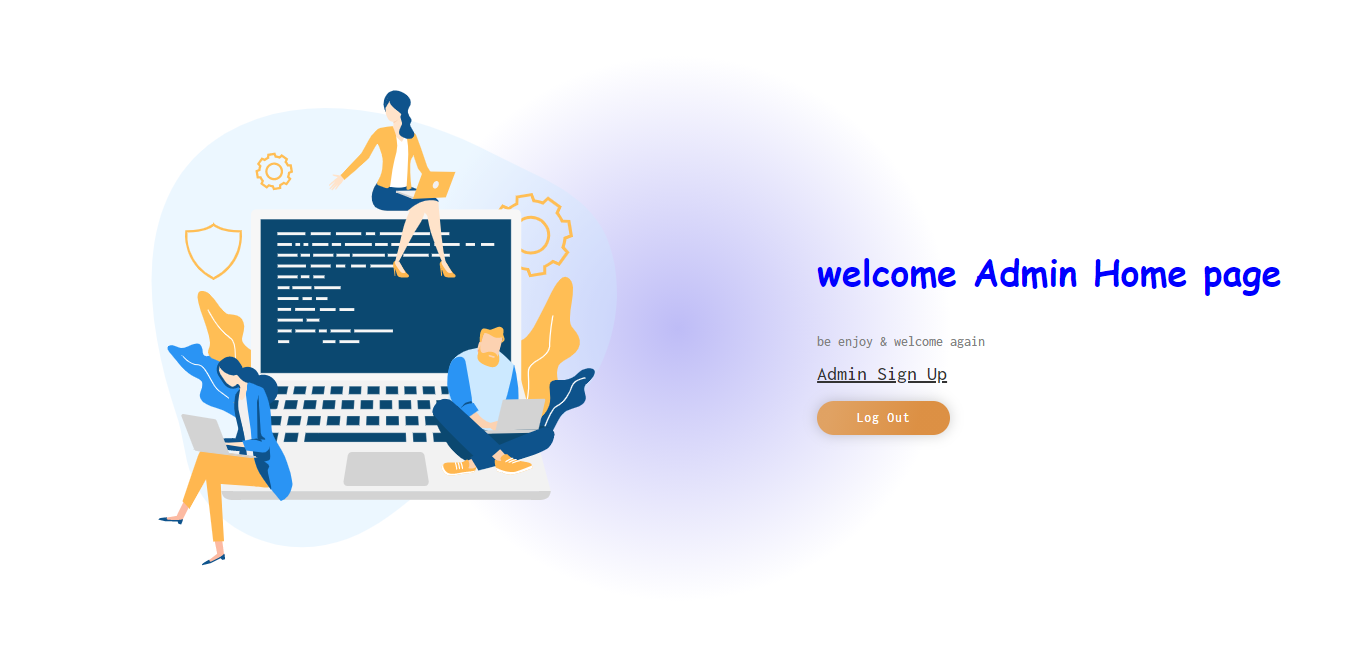
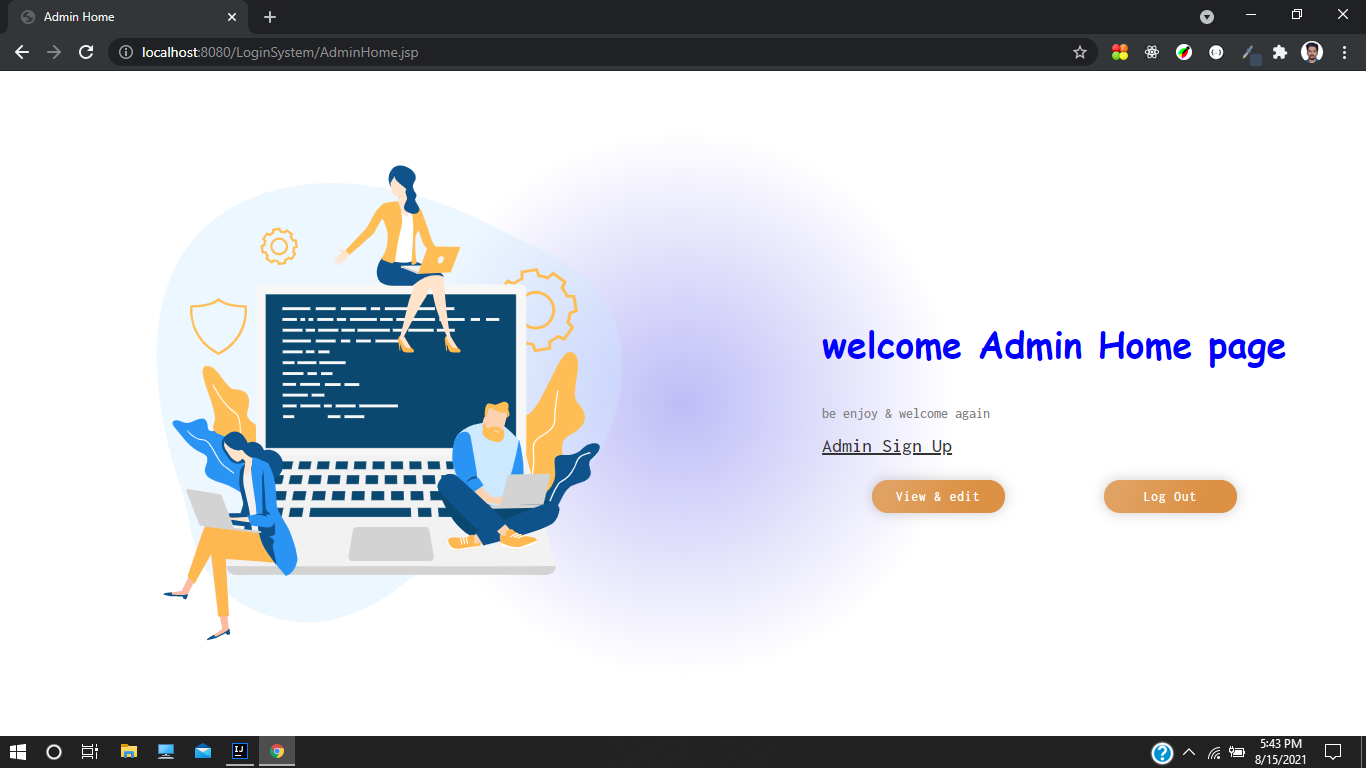
add delete and search feature for admin side & add project view screen shots for git

diff --git a/src/com/epic/loginsystem/dao/RegistrationDao.java b/src/com/epic/loginsystem/dao/RegistrationDao.java
@@ -2,38 +2,46 @@ package com.epic.loginsystem.dao;
 
 
 import com.epic.loginsystem.db.DBConnection;
+import com.epic.loginsystem.db.MyListner;
 import com.epic.loginsystem.model.Registration;
+
+import javax.annotation.Resource;
+import javax.servlet.annotation.WebServlet;
+import javax.sql.DataSource;
 import java.sql.*;
 import java.util.ArrayList;
 
 public class RegistrationDao {
+    @Resource(name = "java:comp/env/jdbc/pool")
+    DataSource ds;
+
 
     public boolean registerEmployee(Registration registration) throws ClassNotFoundException {
         DBConnection connection = null;
         try {
             connection = new DBConnection();
 
-        System.out.println("dao comming");
+            System.out.println("dao comming");
 
-        PreparedStatement pstm = connection.getConnection().prepareStatement("insert into Registration values(?,?,?,?,?,?)");
-        System.out.println("db go");
-        pstm.setObject(1,registration.getEmail());
-        pstm.setObject(2,registration.getUserName());
-        pstm.setObject(3,registration.getAddress());
-        pstm.setObject(4,registration.getContact());
-        pstm.setObject(5,registration.getPassword());
-        pstm.setObject(6,registration.getRole());
+            PreparedStatement pstm = connection.getConnection().prepareStatement("insert into Registration values(?,?,?,?,?,?)");
+            System.out.println("db go");
+            pstm.setObject(1, registration.getEmail());
+            pstm.setObject(2, registration.getUserName());
+            pstm.setObject(3, registration.getAddress());
+            pstm.setObject(4, registration.getContact());
+            pstm.setObject(5, registration.getPassword());
+            pstm.setObject(6, registration.getRole());
 
-        int i = pstm.executeUpdate();
-        System.out.println(i);
-        if (i>=0){
-            return true;
-        }else{
-            return false;
-        }
+            int i = pstm.executeUpdate();
+            System.out.println(i);
+            if (i >= 0) {
+                return true;
+            } else {
+                return false;
+            }
         } catch (SQLException throwables) {
             throwables.printStackTrace();
-        }finally {
+        } finally {
             try {
                 connection.connection.close();
             } catch (SQLException throwables) {
@@ -44,34 +52,35 @@ public class RegistrationDao {
 
     }
 
-    public Registration signIn(String email) throws ClassNotFoundException{
-        Registration r=new Registration();
+    public Registration signIn(String email) throws ClassNotFoundException {
+        Registration r = new Registration();
         //connect with database and get data from my sql database - registration table
         DBConnection dbConnection = null;
         try {
             dbConnection = new DBConnection();
 
-        PreparedStatement pstm = dbConnection.getConnection().prepareStatement("select * from Registration where email=?");
-        pstm.setObject(1,email);
-        ResultSet rst = pstm.executeQuery();
+            PreparedStatement pstm = dbConnection.getConnection().prepareStatement("select * from Registration where email=?");
+            pstm.setObject(1, email);
+            ResultSet rst = pstm.executeQuery();
 
-        while (rst.next()){
-             System.out.println(rst.getString(5));String mail = rst.getString(1); //collect data
-             String userName = rst.getString(2); //collect data
-             String address = rst.getString(3); //collect data
-             String contact = rst.getString(4); //collect data
-             String pass = rst.getString(5); //collect data
-             String role = rst.getString(6); //collect data
-             r.setEmail(mail); //data set to registration model
-             r.setUserName(userName); //data set to registration model
-             r.setAddress(address); //data set to registration model
-             r.setContact(contact);//data set to registration model
-             r.setPassword(pass);//data set to registration model
-            r.setRole(role);
-        }
+            while (rst.next()) {
+                System.out.println(rst.getString(5));
+                String mail = rst.getString(1); //collect data
+                String userName = rst.getString(2); //collect data
+                String address = rst.getString(3); //collect data
+                String contact = rst.getString(4); //collect data
+                String pass = rst.getString(5); //collect data
+                String role = rst.getString(6); //collect data
+                r.setEmail(mail); //data set to registration model
+                r.setUserName(userName); //data set to registration model
+                r.setAddress(address); //data set to registration model
+                r.setContact(contact);//data set to registration model
+                r.setPassword(pass);//data set to registration model
+                r.setRole(role);
+            }
         } catch (SQLException throwables) {
             throwables.printStackTrace();
-        }finally {
+        } finally {
             try {
                 dbConnection.connection.close();
             } catch (SQLException throwables) {
@@ -84,37 +93,38 @@ public class RegistrationDao {
     public ArrayList<Registration> getDetails() throws SQLException, ClassNotFoundException {
         System.out.println("come dao");
         Registration r = new Registration();
-        DBConnection dbConnection=null;
-        ResultSet rst=null;
-             dbConnection = new DBConnection();
-             PreparedStatement pstm = dbConnection.getConnection().prepareStatement("SELECT * FROM Registration");
+        DBConnection dbConnection = null;
+        ResultSet rst = null;
+        dbConnection = new DBConnection();
+        System.out.println("before go to db");
+        PreparedStatement pstm = dbConnection.getConnection().prepareStatement("SELECT * FROM Registration");
         rst = pstm.executeQuery();
         System.out.println("get result");
-        ArrayList<Registration> load=new ArrayList<>();
-        while (rst.next()){
+        ArrayList<Registration> load = new ArrayList<>();
+        while (rst.next()) {
             System.out.println("while ");
-            load.add(new Registration(rst.getString(1),rst.getString(2),rst.getString(3),rst.getString(4),rst.getString(5), rst.getString(6)));
+            load.add(new Registration(rst.getString(1), rst.getString(2), rst.getString(3), rst.getString(4), rst.getString(5), rst.getString(6)));
 
             System.out.println("Add data");
         }
         return load;
     }
 
-    public boolean updateRegister(Registration r){
+    public boolean updateRegister(Registration r) {
         DBConnection connection = null;
         try {
             connection = new DBConnection();
             PreparedStatement pstm = connection.getConnection().prepareStatement("UPDATE Registration SET userName=?,address=?,contact=?,password=?,role=? WHERE email=? ");
-            pstm.setObject(1,r.getUserName());
-            pstm.setObject(2,r.getAddress());
-            pstm.setObject(3,r.getContact());
-            pstm.setObject(4,r.getPassword());
-            pstm.setObject(5,r.getRole());
-            pstm.setObject(6,r.getEmail());
+            pstm.setObject(1, r.getUserName());
+            pstm.setObject(2, r.getAddress());
+            pstm.setObject(3, r.getContact());
+            pstm.setObject(4, r.getPassword());
+            pstm.setObject(5, r.getRole());
+            pstm.setObject(6, r.getEmail());
             int i = pstm.executeUpdate();
-            if (i>=0){
+            if (i >= 0) {
                 return true;
-            }else{
+            } else {
                 return false;
             }
 
@@ -123,7 +133,7 @@ public class RegistrationDao {
             e.printStackTrace();
         } catch (SQLException throwables) {
             throwables.printStackTrace();
-        }finally {
+        } finally {
             try {
                 connection.connection.close();
             } catch (SQLException throwables) {
@@ -131,5 +141,47 @@ public class RegistrationDao {
             }
         }
         return false;
+    }
+
+    public ArrayList<Registration> searchRegistration(String userName) {
+        DBConnection connection = null;
+        try {
+            connection = new DBConnection();
+            PreparedStatement pstm = connection.getConnection().prepareStatement("SELECT * FROM Registration WHERE userName=?");
+            pstm.setObject(1, userName);
+            ResultSet rst = pstm.executeQuery();
+            ArrayList<Registration> load = new ArrayList<>();
+            while (rst.next()) {
+                load.add(new Registration(rst.getString(1), rst.getString(2), rst.getString(3), rst.getString(4), rst.getString(5), rst.getString(6)));
+            }
+            return load;
+        } catch (ClassNotFoundException e) {
+            e.printStackTrace();
+        } catch (SQLException throwables) {
+            throwables.printStackTrace();
+        }
+        return null;
+
+    }
+
+    public int deleteRegistration(String email) throws SQLException {
+        System.out.println("dao");
+        int i = 0;
+        DBConnection dbConnection = null;
+        System.out.println("connection");
+        try {
+            dbConnection = new DBConnection();
+            System.out.println("before db connect");
+            PreparedStatement pstm = dbConnection.getConnection().prepareStatement("DELETE FROM Registration WHERE email=?");
+            pstm.setObject(1, email);
+            System.out.println("deleted");
+            i = pstm.executeUpdate();
+            return i;
+        } catch (ClassNotFoundException e) {
+            e.printStackTrace();
+        } finally {
+            dbConnection.connection.close();
+        }
+        return 0;
     }
 }
